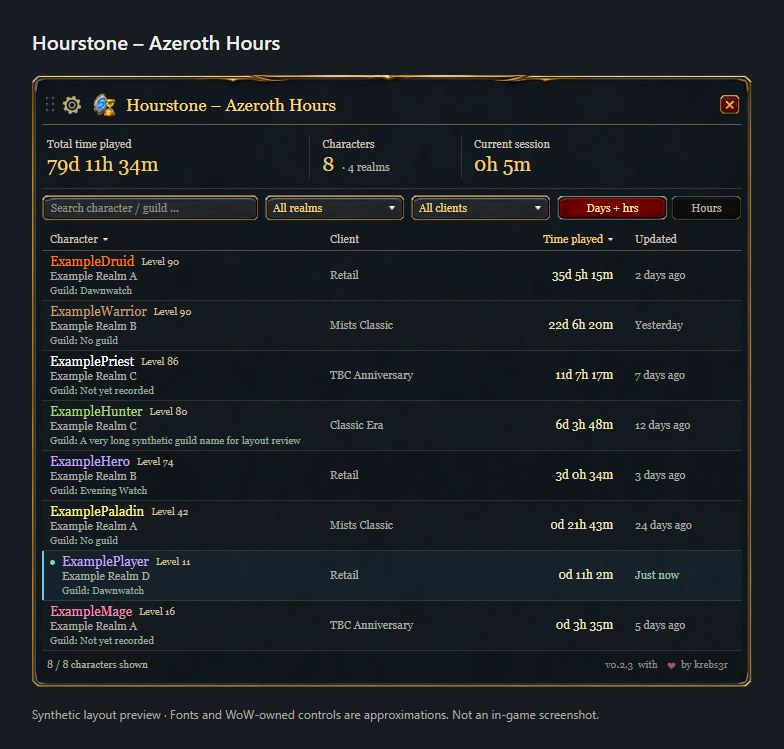
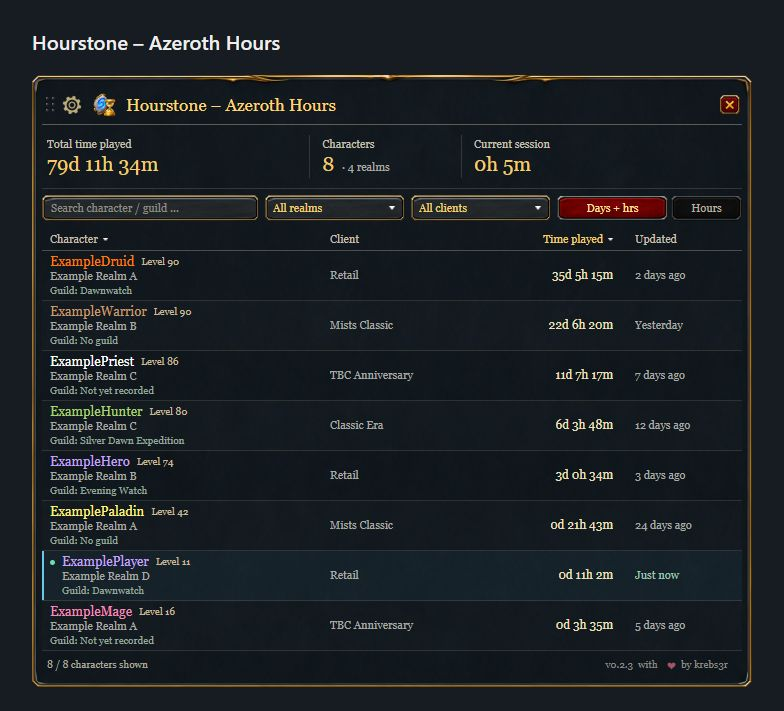
Refresh product images and Companion download guidance

Changed region(s): [[0.0306, 0.0309, 0.9796, 0.9902], [0.7041, 0.4951, 0.8878, 0.7736], [0.398, 0.4951, 0.5204, 0.7736]]

diff --git a/tools/preview.py b/tools/preview.py
@@ -135,13 +135,12 @@ def render(project,locale,settings=False,mode='combined',population=8,addon_scal
     return f'<div class="window" data-physical-width="{width:g}" data-physical-height="{height:g}" style="width:{width}px;height:{height}px"><div class="canvas" style="transform:scale({factor});width:{target.width}px;height:{target.height}px">'+''.join(pieces)+'</div></div>'
 
 def product_pages():
-    """Write synthetic, explicitly labeled layouts for documentation captures."""
+    """Write synthetic product layouts for documentation captures."""
     css='body{margin:0;background:#171c22;color:#eee;font-family:Segoe UI,sans-serif}.product{width:720px;padding:28px 32px 24px}h1{font-size:20px;font-weight:600;margin:0 0 20px}.window,.canvas{position:relative}.canvas{transform-origin:top left}.canvas>span,.canvas>div{position:absolute;white-space:nowrap;overflow:hidden;text-overflow:ellipsis;font-family:Georgia,serif}p{font-size:12px;color:#a9aaa2;margin:18px 0 0;line-height:1.6}'
     destination=ROOT/"dist"; destination.mkdir(exist_ok=True)
     for locale,language in (("deDE","de"),("enUS","en")):
-        caption=("Synthetische Layoutvorschau · Schrift und WoW-eigene Bedienelemente sind Näherungen. Keine Ingame-Aufnahme."
-            if language=="de" else "Synthetic layout preview · Fonts and WoW-owned controls are approximations. Not an in-game screenshot.")
-        page=f'<!doctype html><html lang="{language}"><meta charset="utf-8"><title>Hourstone · {language.upper()} layout preview</title><style>{css}</style><main class="product"><h1>Hourstone – Azeroth Hours</h1>'+render(1,locale,population=8)+f'<p>{caption}</p></main></html>'
+        overview=render(1,locale,population=8).replace("A very long synthetic guild name for layout review","Silver Dawn Expedition")
+        page=f'<!doctype html><html lang="{language}"><meta charset="utf-8"><title>Hourstone · {language.upper()} layout preview</title><style>{css}</style><main class="product"><h1>Hourstone – Azeroth Hours</h1>'+overview+'</main></html>'
         path=destination/f"addon-product-{language}.html"; path.write_text(page,encoding="utf-8"); print(path)
 
 

diff --git a/docs/curseforge/description.md b/docs/curseforge/description.md
@@ -2,9 +2,9 @@
 
 **Your characters. Your time.** See your World of Warcraft characters' total `/played` time and your current session in one compact window. Hourstone works on its own: no other addon, desktop app or external account is required.
 
-![Hourstone overview with character, guild and client information](https://raw.githubusercontent.com/krebs3r/hourstone-azeroth-hours/c7d39d43373e2ce5e4a5388cbb92e7c067a9ed5b/docs/assets/addon-overview-en.png)
+![Hourstone overview with character, guild and client information](https://raw.githubusercontent.com/krebs3r/hourstone-azeroth-hours/main/docs/assets/addon-overview-en.png)
 
-Synthetic sample data; browser approximation of the layout, not an in-game screenshot.
+The Hourstone character overview with realm and client filters.
 
 ## Your character overview
 
@@ -25,11 +25,17 @@ Right-click a character and confirm **Delete** to exclude the entry from the ove
 
 **Playing several WoW versions or using more than one PC? We recommend the optional [Hourstone Companion](https://github.com/krebs3r/hourstone-companion).** It brings the saved Hourstone data from your selected installations and accounts into one overview, including characters, guilds and playtime. The same character is counted once even if it is played on several devices.
 
+![Hourstone Companion overview for Windows](https://raw.githubusercontent.com/krebs3r/hourstone-companion/a97844e76462aa7cf3900e4554c9efa524dc3941/docs/assets/overview.png)
+
+Hourstone Companion: your characters and playtime across WoW clients.
+
 For multiple PCs, choose a shared folder that Dropbox, OneDrive or another folder-sync service keeps synchronized and available locally on every device. The Companion exchanges its data through that folder; no Hourstone server or separate Companion account is needed. Without a shared folder, it can still combine data from local installations.
 
 The exchange is automatic but not live: WoW must first save by logging out or using `/reload`, the Companion processes the saved data, and the folder service transfers changes between PCs. Hourstone reads the combined overview at the next login or `/reload`; after the first setup of the Companion data addon, fully close and restart WoW once. A deletion made while another PC was offline must reach that PC before a new character login can restore the entry.
 
-Use **Hourstone 0.2.2 or newer** and **Companion 0.1.3 or newer** on all participating PCs. Older Hourstone 0.1.x versions do not support the Companion. The Windows Companion is currently a source/development preview; its signed public installer is still pending. Setup information, source code and release status are in the [Companion repository](https://github.com/krebs3r/hourstone-companion). The addon remains fully usable without it.
+Download **[Companion 0.1.5 for Windows 11 x64](https://github.com/krebs3r/hourstone-companion/releases/tag/v0.1.5)** as an installer or portable package. This is an unsigned preview release. Setup instructions and source code are in the [Companion repository](https://github.com/krebs3r/hourstone-companion).
+
+Use **Hourstone 0.2.2 or newer** and **Companion 0.1.3 or newer** on all participating PCs. Older Hourstone 0.1.x versions do not support the Companion. The addon remains fully usable without it and continues to update separately through CurseForge.
 
 ## Supported clients
 
@@ -43,9 +49,9 @@ Also from krebs3r: [Soundstone – Azeroth Audio](https://www.curseforge.com/wow
 
 **Deine Charaktere. Deine Spielzeit.** Hourstone zeigt die gesamte `/played`-Zeit deiner erfassten Charaktere und die aktuelle Sitzung in einem kompakten Fenster. Das Addon funktioniert eigenständig; eine zusätzliche App oder ein externes Konto ist nicht erforderlich.
 
-![Hourstone-Übersicht mit Charakteren, Gilden und eigener Clientspalte](https://raw.githubusercontent.com/krebs3r/hourstone-azeroth-hours/c7d39d43373e2ce5e4a5388cbb92e7c067a9ed5b/docs/assets/addon-overview-de.png)
+![Hourstone-Übersicht mit Charakteren, Gilden und eigener Clientspalte](https://raw.githubusercontent.com/krebs3r/hourstone-azeroth-hours/main/docs/assets/addon-overview-de.png)
 
-Synthetische Beispieldaten; Layout als Browser-Näherung, keine Ingame-Aufnahme.
+Die Hourstone-Charakterübersicht mit Realm- und Clientfiltern.
 
 Die Übersicht zeigt Name, Klassenfarbe, Level, Realm, zuletzt erfasste Gilde, Client, Spielzeit und letzte Aktualisierung. Suche nach Charakter oder Gilde, kombiniere Realm- und Clientfilter und sortiere die Spalten. Wähle zwischen Dezimalstunden und Tagen, Stunden und Minuten. Fensterposition, Größe und Minimap-Einstellung bleiben gespeichert.
 
@@ -61,4 +67,6 @@ Für den Austausch zwischen PCs wählst du einen gemeinsamen Ordner, den beispie
 
 Der Austausch erfolgt automatisch und zeitversetzt: WoW speichert beim Ausloggen oder mit `/reload`, der Companion liest den gespeicherten Stand ein und der Ordnerdienst überträgt die Änderungen. Das Addon übernimmt die gemeinsame Übersicht beim nächsten Login oder `/reload`. Nach der ersten Einrichtung des Companion-Datenaddons WoW einmal vollständig schließen und neu starten. Nach einer Löschung während des Offline-Betriebs zuerst synchronisieren, danach erneut mit dem Charakter einloggen, um den Eintrag wiederherzustellen.
 
-Benötigt werden **Hourstone ab 0.2.2** und **Companion ab 0.1.3** auf allen beteiligten PCs. Die alten Addon-Versionen 0.1.x unterstützen den Companion noch nicht. Der Windows-Companion ist derzeit eine Quellcode-/Entwicklungsvorschau; ein signierter öffentlicher Installer steht noch aus. Anleitung, Quellcode und Veröffentlichungsstand stehen im [Companion-Repository](https://github.com/krebs3r/hourstone-companion). Das Addon bleibt ohne Companion nutzbar und wird weiterhin separat über CurseForge aktualisiert.
+**[Companion 0.1.5 für Windows 11 x64 herunterladen](https://github.com/krebs3r/hourstone-companion/releases/tag/v0.1.5)** – als Installer oder portables Paket. Dies ist eine unsignierte Vorschauversion. Anleitung und Quellcode stehen im [Companion-Repository](https://github.com/krebs3r/hourstone-companion).
+
+Benötigt werden **Hourstone ab 0.2.2** und **Companion ab 0.1.3** auf allen beteiligten PCs. Die alten Addon-Versionen 0.1.x unterstützen den Companion noch nicht. Das Addon bleibt ohne Companion nutzbar und wird weiterhin separat über CurseForge aktualisiert.

diff --git a/README.md b/README.md
@@ -8,9 +8,9 @@ Track your World of Warcraft characters and their total `/played` time in one co
 
 [Download](https://github.com/krebs3r/hourstone-azeroth-hours/releases/latest) · [CurseForge](https://www.curseforge.com/wow/addons/hourstone-azeroth-hours) · [Deutsche Anleitung](docs/DEUTSCH.md) · [Report an issue](https://github.com/krebs3r/hourstone-azeroth-hours/issues)
 
-![Hourstone 0.2.3 synthetic layout preview showing realm and client filters and a separate client column](docs/assets/addon-overview-en.png)
+![Hourstone 0.2.3 overview with realm and client filters and a separate client column](docs/assets/addon-overview-en.png)
 
-Synthetic layout preview with fictional characters. Browser fonts and WoW-owned controls approximate the native UI; this is not an in-game screenshot.
+The character overview puts realm and client filters beside the search and shows each character's guild and playtime.
 
 ## Installation
 
@@ -51,7 +51,7 @@ Hourstone 0.2.3 supports [protocol 3](docs/sync-protocol-v3.md) with the separat
 
 WoW first saves by logging out or using `/reload`. The Companion reads the saved observations from your selected installations and accounts, combines them and makes the shared overview available to the addon. Hourstone reads that overview on the next login or `/reload`. After the initial installation of the Companion data addon, fully close and restart WoW once. Between PCs, choose a folder that Dropbox, OneDrive or another service synchronizes and keeps available locally on each device; the Companion exchanges device snapshots through that folder.
 
-The Windows Companion is currently a source/development preview; a signed public installer is not yet available. Its repository contains setup information and release status. Hourstone remains fully usable on its own.
+[Hourstone Companion 0.1.5 for Windows 11 x64](https://github.com/krebs3r/hourstone-companion/releases/tag/v0.1.5) is available as an installer or portable package. This is an unsigned preview release. Its repository contains setup information and source code. Hourstone remains fully usable on its own.
 
 Repeated observations of the same character are merged, never added. Confirmed server measurements are stored separately from local estimates. UI settings, request timing and the current session remain local. Synchronization cannot transfer `/played` between distinct characters, fetch unvisited characters or update a running client in real time. The companion's documentation explains setup, backups and limitations.
 
@@ -81,7 +81,7 @@ python tools/package.py
 
 The local pre-push hook and CI check the current tree and every new commit for private material. Keep local exports, logs and credentials outside Git. [Repository checks](docs/REPOSITORY.md) explains the historical baseline and checks.
 
-`tools/assets.py` regenerates shipping TGA textures from retained PNG masters and source manifests. Packaging validates metadata, files, textures, licenses and deterministic ZIP output. `tools/preview.py` renders the current Lua layout with synthetic data and approximate browser fonts; native checks remain necessary. Add `--product-pages` to generate explicitly labeled German and English layouts for documentation images in `dist`.
+`tools/assets.py` regenerates shipping TGA textures from retained PNG masters and source manifests. Packaging validates metadata, files, textures, licenses and deterministic ZIP output. `tools/preview.py` renders the current Lua layout with synthetic data and approximate browser fonts; native checks remain necessary. Add `--product-pages` to generate German and English product layouts for documentation images in `dist`.
 
 See the [changelog](CHANGELOG.md), [validation guide](docs/VALIDATION.md) and [publishing guide](docs/curseforge/README.md).
 

diff --git a/docs/DEUTSCH.md b/docs/DEUTSCH.md
@@ -2,9 +2,9 @@
 
 Hourstone zeigt die gesamte `/played`-Zeit deiner erfassten World-of-Warcraft-Charaktere, die Gesamtspielzeit und die aktuelle Sitzung in einem kompakten Fenster. Suche, Filter, Sortierung und zwei Zeitformate erleichtern die Übersicht.
 
-![Synthetische Layoutvorschau von Hourstone 0.2.3 mit oberen Realm- und Clientfiltern und eigener Clientspalte](assets/addon-overview-de.png)
+![Hourstone 0.2.3 mit oberen Realm- und Clientfiltern und eigener Clientspalte](assets/addon-overview-de.png)
 
-Layoutvorschau mit fiktiven Charakteren. Schrift und WoW-eigene Bedienelemente sind Browser-Näherungen; dies ist keine Ingame-Aufnahme.
+Die Charakterübersicht vereint Suche, Realm- und Clientfilter und zeigt Gilde und Spielzeit jedes Charakters.
 
 ## Installation und Bedienung
 
@@ -41,7 +41,7 @@ Hourstone 0.2.3 unterstützt [Protokoll 3](sync-protocol-v3.md) des separaten [H
 
 WoW speichert zunächst beim Ausloggen oder mit `/reload`. Der Companion liest die gespeicherten Stände deiner ausgewählten Installationen und Accounts ein, führt sie zusammen und stellt die gemeinsame Übersicht für das Addon bereit. Hourstone übernimmt sie beim nächsten Login oder `/reload`. Nach der ersten Installation des Companion-Datenaddons WoW einmal vollständig schließen und neu starten. Für mehrere PCs einen Ordner wählen, den Dropbox, OneDrive oder ein anderer Dienst auf allen Geräten synchronisiert und dauerhaft lokal verfügbar hält. Darüber tauscht der Companion die Gerätestände aus.
 
-Der Windows-Companion ist derzeit als Quellcode-/Entwicklungsvorschau verfügbar; ein signierter öffentlicher Installer steht noch aus. Einrichtung und Veröffentlichungsstand stehen im Companion-Repository. Das Addon bleibt eigenständig nutzbar.
+[Hourstone Companion 0.1.5 für Windows 11 x64](https://github.com/krebs3r/hourstone-companion/releases/tag/v0.1.5) ist als Installer und portables Paket verfügbar. Dies ist eine unsignierte Vorschauversion. Einrichtung und Quellcode stehen im Companion-Repository. Das Addon bleibt eigenständig nutzbar.
 
 Doppelte Stände desselben Charakters werden zusammengeführt und niemals addiert. Bestätigte Serverwerte bleiben von lokalen Schätzungen getrennt. Fensterposition, Einstellungen, Anfragen und die laufende Sitzung bleiben lokal. Der Abgleich überträgt keine `/played`-Zeit zwischen unterschiedlichen Charakteren und ist kein Live-Abgleich während des Spiels. Einrichtung, Sicherungen und Grenzen stehen in der Companion-Anleitung.
 
